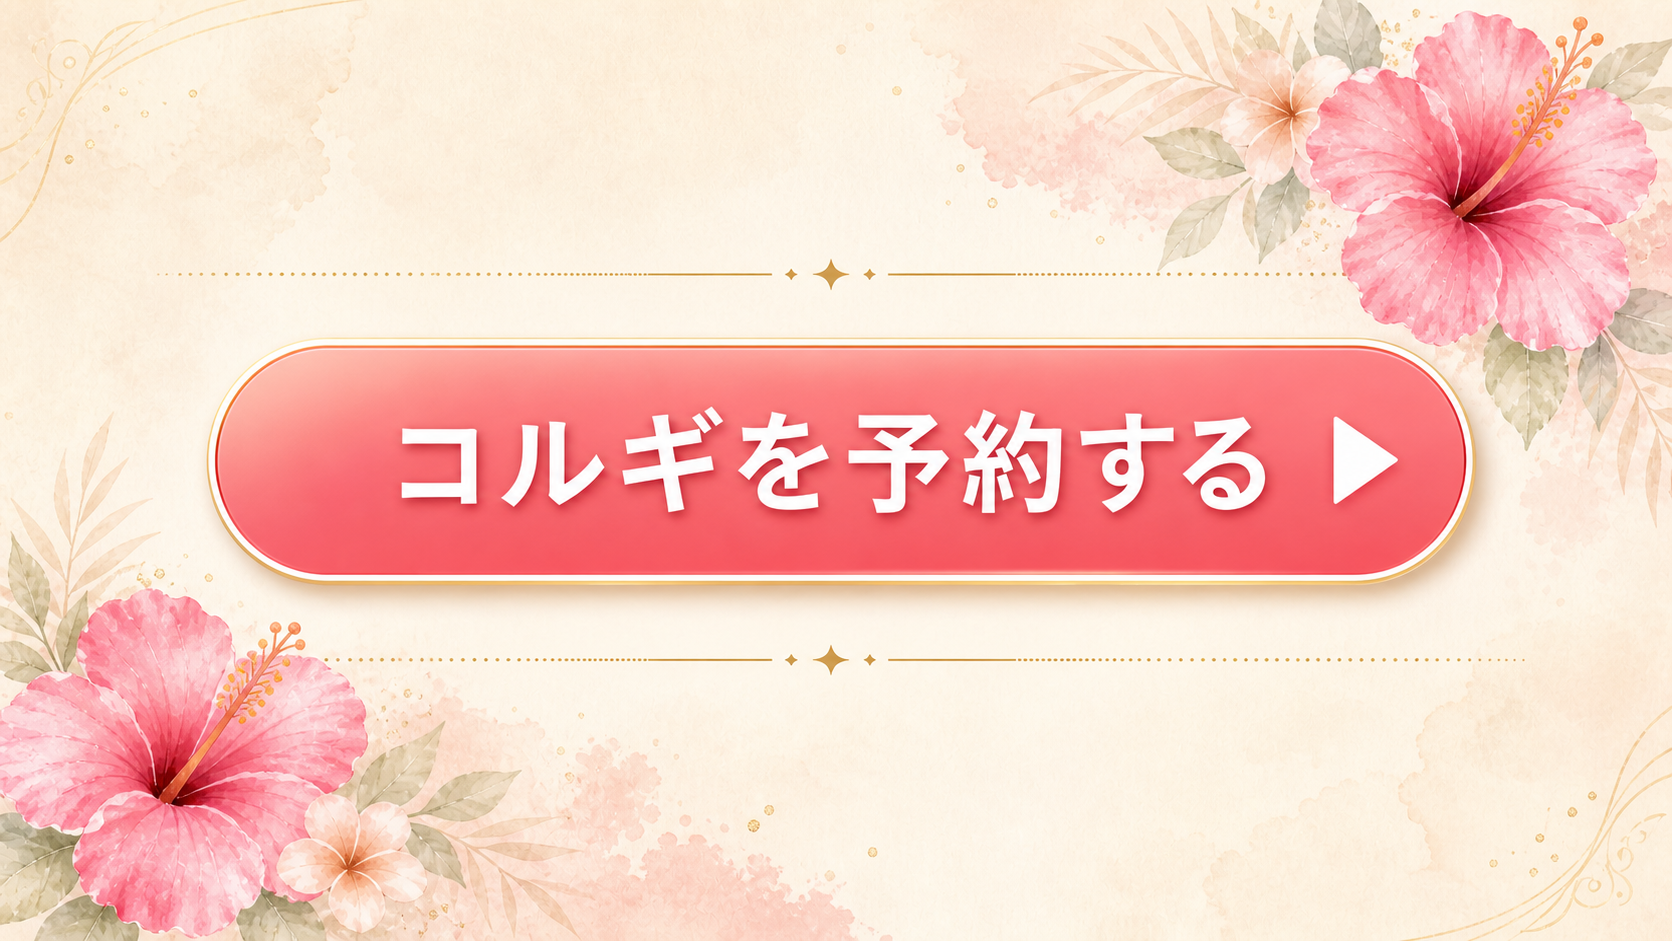
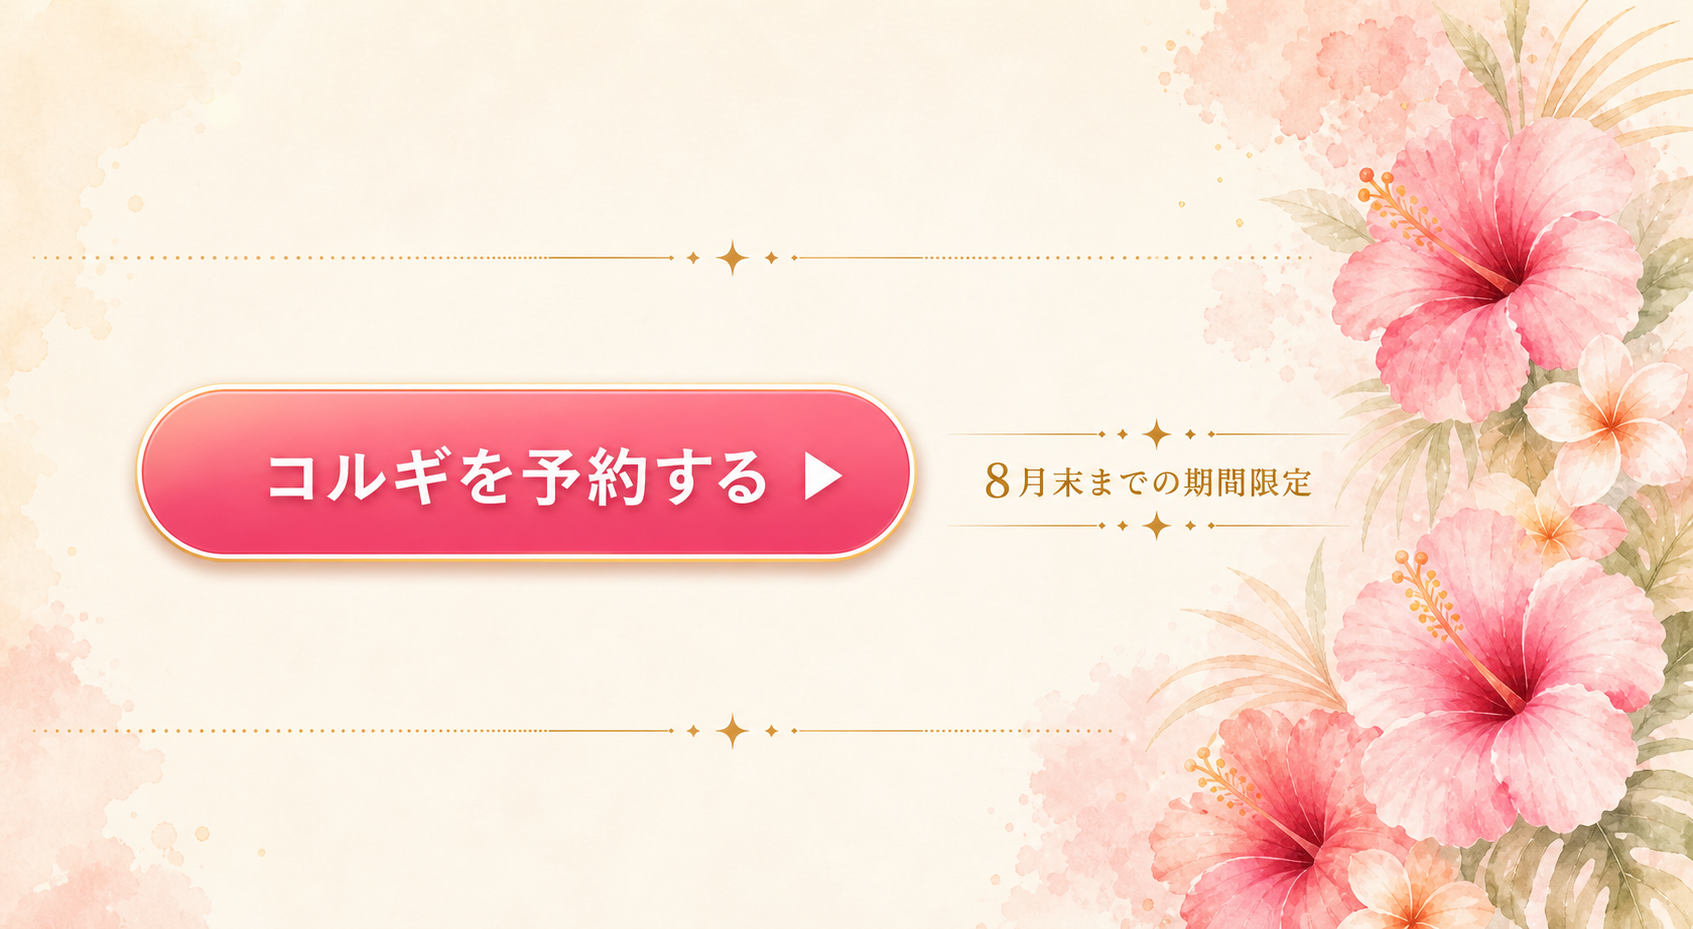
fleur-marine-beauty-summer-lp: 残り2セクション（予約CTA/日焼け止め商品紹介）をPC再設計
再監査で残っていた06-cta-reserveと15-product-sunscreenを、横幅を活かした
非対称配置・列数変更で作り直し。

diff --git a/portfolio/fleur-marine-beauty-summer-lp/lp/style.css b/portfolio/fleur-marine-beauty-summer-lp/lp/style.css
@@ -75,7 +75,7 @@ html {
 .img-ratio-corugi-intro { aspect-ratio: 1536 / 1024; }
 .img-ratio-corugi-what-is { aspect-ratio: 1536 / 1024; }
 .img-ratio-recommend-effect { aspect-ratio: 1501 / 1048; }
-.img-ratio-cta-reserve { aspect-ratio: 1672 / 941; }
+.img-ratio-cta-reserve { aspect-ratio: 1693 / 929; }
 .img-ratio-campaign-badge { aspect-ratio: 1536 / 1024; }
 .img-ratio-price-detail { aspect-ratio: 1536 / 1024; }
 .img-ratio-merit-icons { aspect-ratio: 1536 / 1024; }
@@ -84,7 +84,7 @@ html {
 .img-ratio-skincare-steps { aspect-ratio: 1536 / 1024; }
 .img-ratio-uv-warning { aspect-ratio: 1536 / 1024; }
 .img-ratio-skincare-message { aspect-ratio: 1536 / 1024; }
-.img-ratio-product-sunscreen { aspect-ratio: 911 / 1727; }
+.img-ratio-product-sunscreen { aspect-ratio: 1536 / 1024; }
 .img-ratio-product-mask { aspect-ratio: 1536 / 1024; }
 .img-ratio-corugi-effect-list { aspect-ratio: 1536 / 1024; }
 .img-ratio-concern-check { aspect-ratio: 1536 / 1024; }